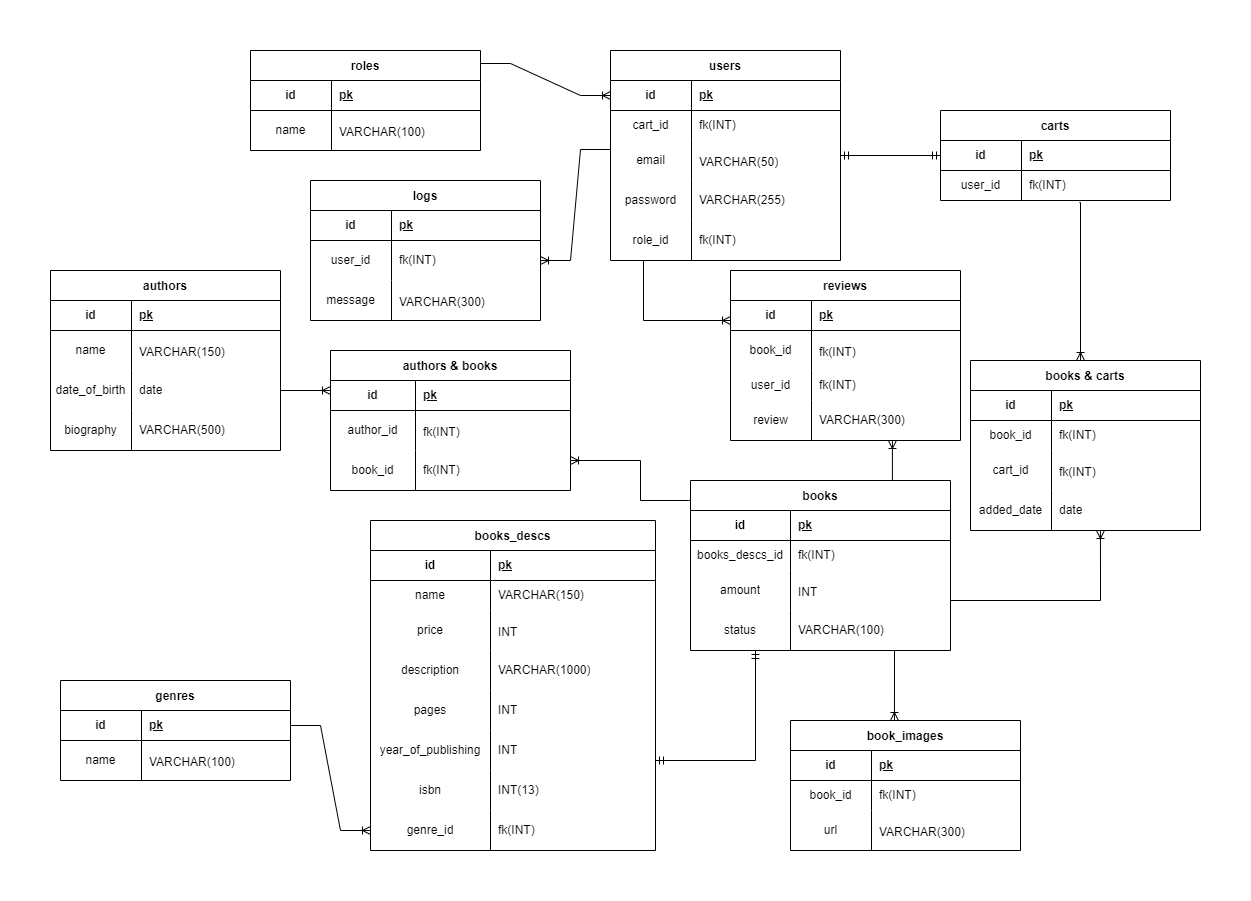
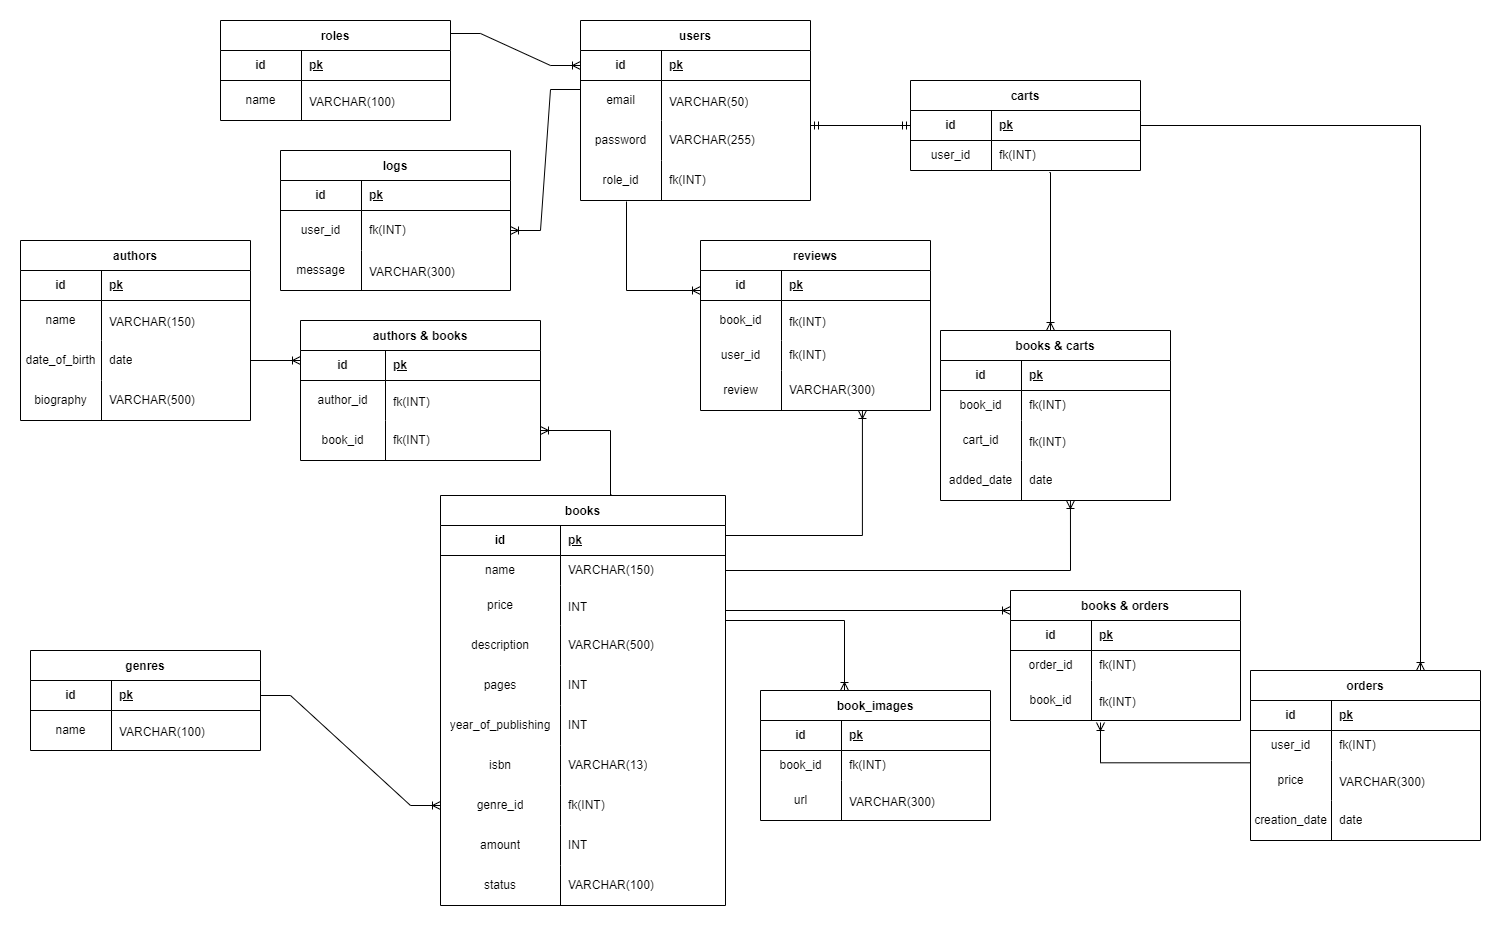
modify lab2

diff --git a/tables.md b/tables.md
@@ -3,7 +3,6 @@
 |имя поля | тип | ограничения | описание |
 |:---:|:---:|:---:|:---:|
 | id | pk(INT) | auto increment; not null; unique | первичный ключ |
-| cart_id | fk(INT) | auto increment; not null; unique | корзина пользователя |
 | email | VARCHAR(50) | not null | почта пользователя |
 | password | VARCHAR(255) | not null | пароль пользователя |
 | role_id | fk(INT) | not null | роль |
@@ -27,22 +26,15 @@
 |имя поля | тип | ограничения | описание |
 |:---:|:---:|:---:|:---:|
 | id | pk(INT) | auto increment; not null; unique | первичный ключ |
-| books_descs_id | fk(INT) | not null | описание книги |
-| amount | INT | not null | количество оставшихся книг |
-| status | VARCHAR(100) | not null; default(in stock) | статус |
-
-
-## books_descs (Описания книг)
-|имя поля | тип | ограничения | описание |
-|:---:|:---:|:---:|:---:|
-| id | pk(INT) | auto increment; not null; unique | первичный ключ |
 | name | VARCHAR(150) | not null | название книги |
 | price | INT | not null | цена книги |
-| description | VARCHAR(1000) | not null | описание книги |
+| description | VARCHAR(500) | not null | описание книги |
 | pages | INT | not null | количество страниц |
 | year_of_publishing | INT | not null | год издания |
 | isnb | INT(13) | not null | международный стандартный книжный номер |
 | genre_id | fk(INT) | not null | категория книги |
+| amount | INT | not null | количество оставшихся книг |
+| status | VARCHAR(100) | not null; default(in stock) | статус |
 
 
 ## genres (Жанры книг)
@@ -99,9 +91,28 @@
 | id | pk(INT) | auto increment; not null; unique | первичный ключ |
 | book_id | fk(INT) | not null | книга |
 | cart_id | fk(INT) | not null | корзина |
+| added_date | date | not null | дата добавления |
+
+
+## orders (Заказы)
+|имя поля | тип | ограничения | описание |
+|:---:|:---:|:---:|:---:|
+| id | pk(INT) | auto increment; not null; unique | первичный ключ |
+| user_id | fk(INT) | not null | пользователь |
+| price | INT | not null | цена |
+| creation_date | date | not null | дата создания заказа |
+
+
+## books & orders (Книги и заказы)
+|имя поля | тип | ограничения | описание |
+|:---:|:---:|:---:|:---:|
+| id | pk(INT) | auto increment; not null; unique | первичный ключ |
+| order_id | fk(INT) | not null | заказ |
+| book_id | fk(INT) | not null | книга |
 
 
 Связи многие ко многим для которых были созданы промежуточные таблицы:
 
  1.У автора может быть много книг, у книг может быть несколько авторов  
  2.В корзине может быть несколько книг, книги могут лежать в разных корзинах
+ 3.В заказе может быть несколько книг, книги могут быть в разных заказах

diff --git a/tt.md b/tt.md
@@ -7,11 +7,11 @@
 - Пользователи
 - Книги
 - Жанры
-- Описание книги
 - Авторы
 - Корзина
 - Фото книги
 - Отзывы
+- Заказы
 
 ## Функциональные требования
 - Авторизация
@@ -19,11 +19,12 @@
 - Управления книгами (CRUD)
 - Система ролей
 - Журналирование действий пользователя
+- Отзывы о книгах 
 
-## Система ролей
+### Система ролей
 - Админ (удалять/изменять книги и пользователей (модераторов), менять статус книг + привилегии модератора,удалять отзывы, просмотр логов)
 - Модератор (удалять/изменять книги, менять статус книг, удалять отзывы)
-- Пользователь (просматривать/покупать книги, писать отзывы)
+- Пользователь (просматривать книги/добавлять книги в корзину/покупать книги, писать отзывы)
 
 ## Личный аккаунт
 
